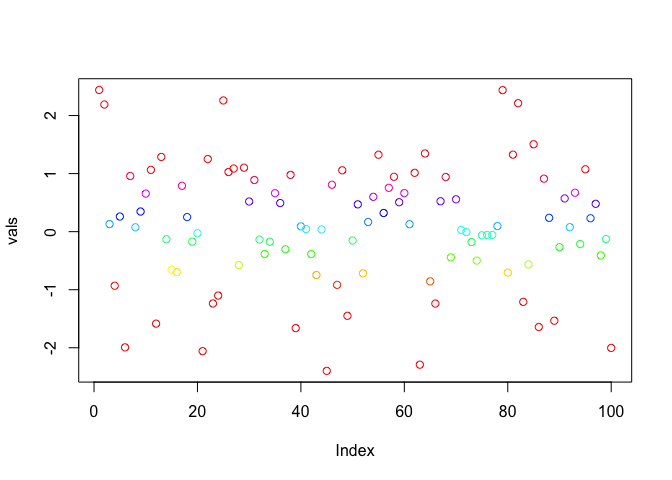
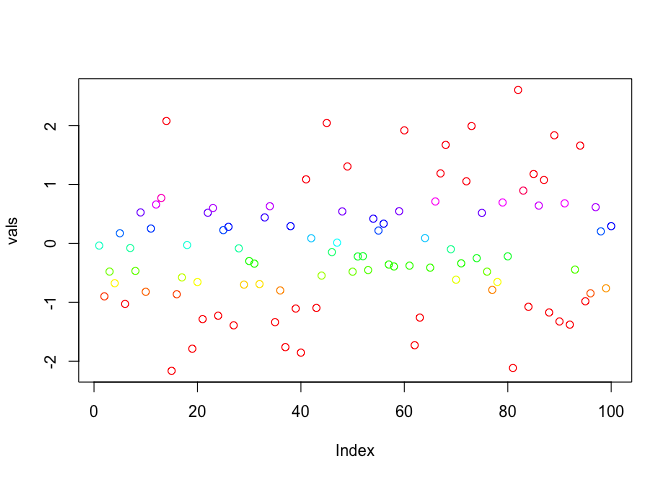
docs

diff --git a/README.md b/README.md
@@ -6,6 +6,7 @@
 <!-- badges: start -->
 
 [![R-CMD-check](https://github.com/bbuchsbaum/colorplane/actions/workflows/R-CMD-check.yaml/badge.svg)](https://github.com/bbuchsbaum/colorplane/actions/workflows/R-CMD-check.yaml)
+
 <!-- badges: end -->
 
 The goal of `colorplane` is to facilitate the creation and manipulation
@@ -63,3 +64,20 @@ plot(vals, col=as_hexcol(cmap2))
 ```
 
 <img src="man/figures/README-example-2.png" width="100%" />
+
+We can also blend colors using alpha compisition. Here we simply give
+all colors a greenish tint to demonstrate color blending.
+
+``` r
+
+library(colorplane)
+
+vals <- rnorm(100) 
+bottom <- map_colors(IntensityColorPlane(vals, cols=rainbow(100)),irange=c(-1,1))
+top <- ConstantColorPlane("#00FF00") 
+
+blend <- blend_colors(bottom, top, alpha=.5)
+plot(vals, col=as_hexcol(blend))
+```
+
+<img src="man/figures/README-example2-1.png" width="100%" />
